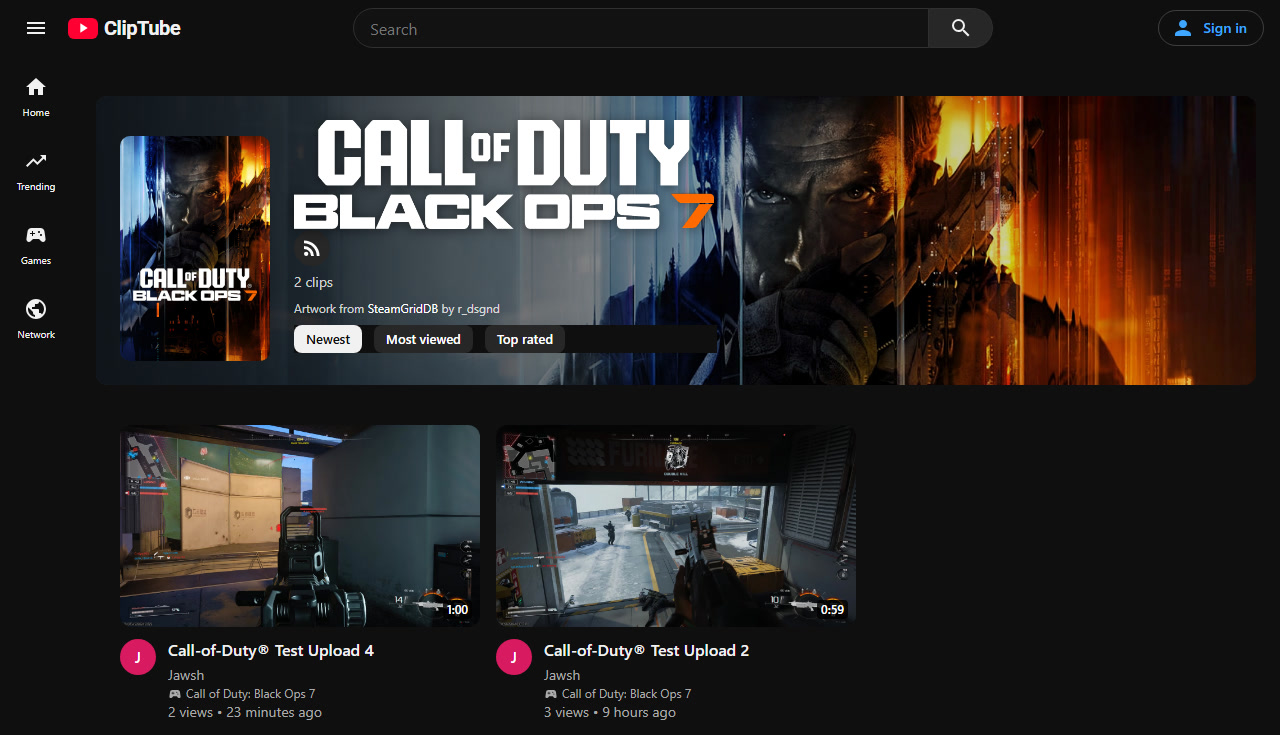
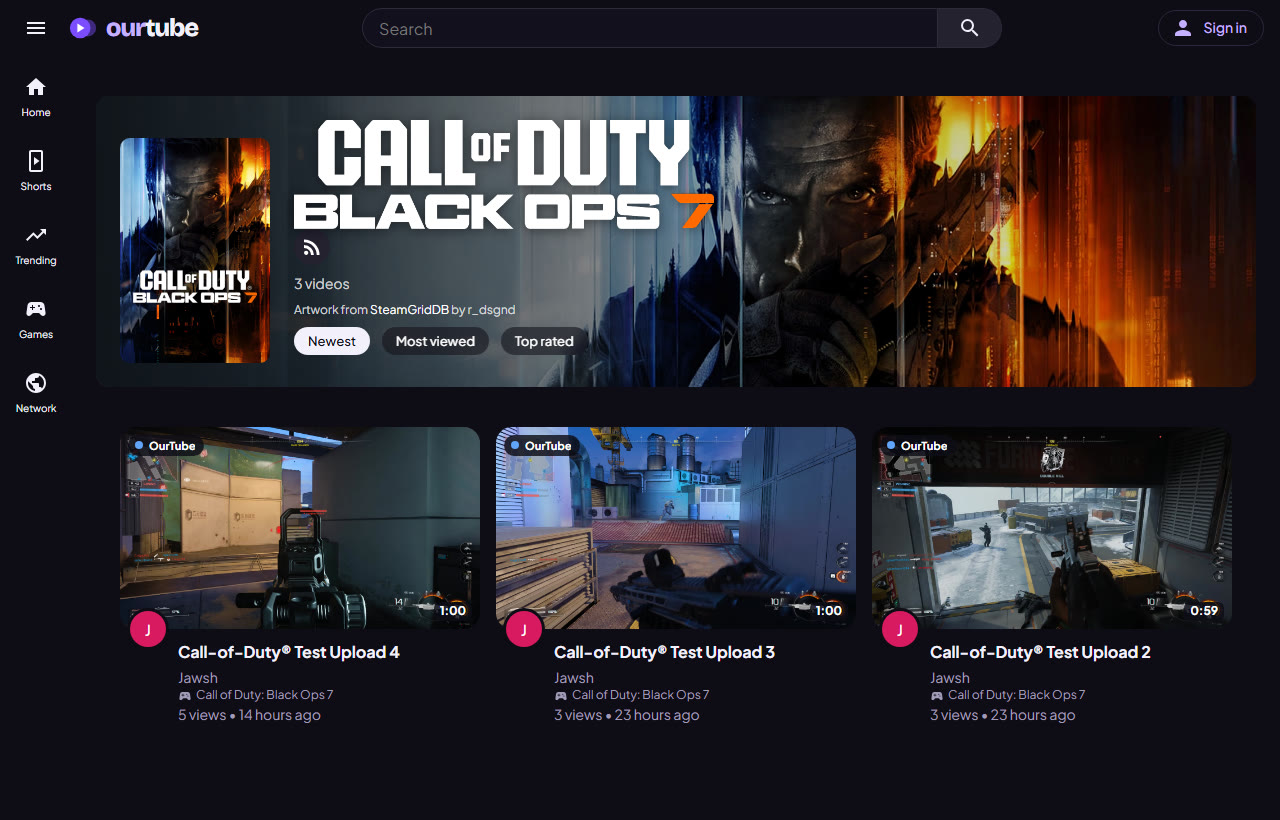
README fixes, "an OurTube", and new screenshots
The README's clip-to-video edit had also changed names that have to stay:
the hub is still at clips.irc.so, the container is still called cliptube
(docker logs / docker exec), and the wiki page is still Clip Tools and
Games. Those are back, the clip-a-moment tool is "Clip a moment" again, a
few headings and sentence starts are capitalized, and the current
release reads v1.14.1.

The rename to OurTube had left "a OurTube" in docs, comments and a few
messages; it's "an OurTube" now.

New screenshots of the hub in the OurTube look: Home with videos from
four servers and their server tags, a watch page, and a game page.

diff --git a/server/network.js b/server/network.js
@@ -122,13 +122,13 @@ const apOn = () => !!ap && apEnabled() && !!apBase();
 /** A peer that speaks protocol 4 (the OurTube network over ActivityPub). */
 const apPeer = (inst) => !!inst?.ap_actor && (inst.protocol || 0) >= 4;
 
-/** A OurTube instance in this network (peered, or listed by our hub): the network's switches apply to it. */
+/** An OurTube instance in this network (peered, or listed by our hub): the network's switches apply to it. */
 export function isNetworkPeer(inst) {
   return !!inst && (inst.protocol || 0) >= 2 && peerAllowed(inst);
 }
 
 /**
- * Another server's instance actor asks to follow ours: a OurTube peer (protocol 4 peering) or a server
+ * Another server's instance actor asks to follow ours: an OurTube peer (protocol 4 peering) or a server
  * mirroring this one (PeerTube does this). The admission switches decide. Returns accept, reject or pending.
  */
 export async function peerFollowReceived(actor, followId) {
@@ -140,7 +140,7 @@ export async function peerFollowReceived(actor, followId) {
   if (!apPeer(inst)) {
     try {
       inst = recordDescriptor(inst.url, await fetchDescriptor(inst.url), inst.source === 'activitypub' ? 'inbound' : inst.source || 'inbound');
-    } catch {} // not a OurTube instance: still subject to the switches below
+    } catch {} // not an OurTube instance: still subject to the switches below
   }
   if (inst.blocked || ['banned', 'suspended'].includes(inst.hub_status)) return 'reject';
   const adm = admission();
@@ -153,7 +153,7 @@ export async function peerFollowReceived(actor, followId) {
     return 'pending';
   }
   db.prepare("UPDATE instances SET peer_status = 'approved', ap_follow_id = NULL, last_seen_at = ?, next_try_at = NULL WHERE id = ?").run(now(), inst.id);
-  // A OurTube peer gets followed back, so videos flow both ways (what "hello" did in protocol v3).
+  // An OurTube peer gets followed back, so videos flow both ways (what "hello" did in protocol v3).
   if (apPeer(inst) && inst.ap_actor === actor.id && apOn() && participating()) ap.follow(instById(inst.id)).catch(() => {});
   return 'accept';
 }
@@ -349,7 +349,7 @@ function validPublicKey(pem) {
 /** What an instance says about itself at its own address. Its TLS certificate vouches for the key. */
 async function fetchDescriptor(url) {
   const d = await fetchJson(`${url}/.well-known/cliptube`, { timeout: 10000 });
-  if (d.software !== 'cliptube') throw new RemoteError(0, `${url} is not a OurTube instance`);
+  if (d.software !== 'cliptube') throw new RemoteError(0, `${url} is not an OurTube instance`);
   let claimed = null;
   try {
     claimed = normalizeInstanceUrl(d.url);
@@ -625,7 +625,7 @@ export function cleanItem(it, origin) {
   };
 }
 
-// One video, one row: a OurTube video seen through both protocols merges, and once it has come over
+// One video, one row: an OurTube video seen through both protocols merges, and once it has come over
 // ActivityPub it stays on that path (protocol 4 peers no longer take interactions the old way).
 const UPSERT_VIDEO = `INSERT INTO network_videos (instance_id, remote_id, title, description, tags, duration, width, height, views, likes,
     created_at, updated_at, thumbnail_url, video_url, watch_url, uploader_username, uploader_display_name, uploader_avatar_url, uploader_url, fetched_at,
@@ -1463,9 +1463,9 @@ export async function joinHub(meInput, hubInput) {
   try {
     desc = await fetchJson(`${hubUrl}/.well-known/cliptube`);
   } catch (e) {
-    throw new HttpError(400, e.status === 404 ? `${hubUrl} is not running a OurTube network hub` : `Could not reach ${hubUrl}: ${e.message}`);
+    throw new HttpError(400, e.status === 404 ? `${hubUrl} is not running an OurTube network hub` : `Could not reach ${hubUrl}: ${e.message}`);
   }
-  if (desc.software !== 'cliptube' || !desc.hub?.enabled) throw new HttpError(400, `${hubUrl} is not running a OurTube network hub`);
+  if (desc.software !== 'cliptube' || !desc.hub?.enabled) throw new HttpError(400, `${hubUrl} is not running an OurTube network hub`);
 
   const nonce = crypto.randomBytes(24).toString('base64url');
   const feedToken = crypto.randomBytes(32).toString('base64url');
@@ -1520,7 +1520,7 @@ export async function joinNetwork(meInput, targetInput) {
   try {
     d = await fetchDescriptor(target);
   } catch (e) {
-    throw new HttpError(400, e.status === 404 ? `${target} is not part of a OurTube network` : `Could not reach ${target}: ${e.message}`);
+    throw new HttpError(400, e.status === 404 ? `${target} is not part of an OurTube network` : `Could not reach ${target}: ${e.message}`);
   }
   if (d.hub?.enabled && !isHub()) return joinHub(me, target);
   if ((Number(d.protocol) || 2) < 3) throw new HttpError(400, `${target} runs an older OurTube that can only be joined through its hub${d.hub?.url ? ` (${d.hub.url})` : ''}`);

diff --git a/server/ap/api.js b/server/ap/api.js
@@ -152,7 +152,7 @@ function apVideo(req) {
 }
 
 const instOf = (instanceId) => db.prepare('SELECT * FROM instances WHERE id = ?').get(Number(instanceId));
-/** A OurTube peer on protocol 4: answers each comment, and serves its whole thread. */
+/** An OurTube peer on protocol 4: answers each comment, and serves its whole thread. */
 const clipTubePeer = (inst) => !!inst?.ap_actor && (inst.protocol || 0) >= 4;
 
 /** The OurTube network's switches cover OurTube peers; other servers only answer to their own settings. */
@@ -199,7 +199,7 @@ const commentShape = (c, me) => {
   };
 };
 
-/** A note from a OurTube peer's thread, in the shape of the comments API. */
+/** A note from an OurTube peer's thread, in the shape of the comments API. */
 function threadComment(n, v, me, mine, inThread, base) {
   const a = n.attributedTo && typeof n.attributedTo === 'object' ? n.attributedTo : { id: idOf(n.attributedTo) };
   const actorId = idOf(a.id) || '';
@@ -241,7 +241,7 @@ apNetworkRouter.get('/videos/:iid/:rid/comments', async (req, res, next) => {
   const canPost = !!v.comments_enabled && apEnabled() && (!isNetworkPeer(inst) || networkPolicy().comments);
   const rows = db.prepare('SELECT * FROM network_comments WHERE instance_id = ? AND remote_id = ? ORDER BY created_at').all(v.instance_id, v.remote_id);
   const mine = new Map(rows.filter((c) => c.ap_id).map((c) => [c.ap_id, c]));
-  // A OurTube peer serves the whole thread; elsewhere, show the comments that were delivered here.
+  // An OurTube peer serves the whole thread; elsewhere, show the comments that were delivered here.
   const thread = clipTubePeer(inst) ? await remoteThread(v) : null;
   if (thread) {
     const inThread = new Set(thread.map((n) => n.id));
@@ -367,7 +367,7 @@ apNetworkRouter.post('/videos/:iid/:rid/like', requireAuth, requireApOn, async (
 });
 
 /**
- * A fediverse channel's actor, for the remote channel links. On a OurTube peer (protocol 4) a channel we
+ * A fediverse channel's actor, for the remote channel links. On an OurTube peer (protocol 4) a channel we
  * haven't seen yet is fetched from its usual address (name_channel is /ap/channels/name).
  */
 async function apChannel(req) {

diff --git a/server/routes/videos.js b/server/routes/videos.js
@@ -758,7 +758,7 @@ videosRouter.patch('/:id/comments/:cid', requireAuth, (req, res) => {
     db.prepare("UPDATE comments SET status = 'visible', held_reason = NULL WHERE id = ?").run(c.id);
     notifyComment(c.id);
     apCommentCreated(c.id);
-    if (c.status === 'held') apCommentVerdict(c, true).catch(() => {}); // a OurTube peer is waiting to hear
+    if (c.status === 'held') apCommentVerdict(c, true).catch(() => {}); // an OurTube peer is waiting to hear
     if (req.user.id !== v.user_id) logAction(req.user, 'comment.approve', { targetType: 'comment', targetId: c.id, targetLabel: c.body.slice(0, 120) });
   }
   if (b.pinned !== undefined || b.hearted !== undefined) {
@@ -802,7 +802,7 @@ videosRouter.delete('/:id/comments/:cid', requireAuth, (req, res) => {
   db.prepare('DELETE FROM comments WHERE id = ?').run(c.id);
   const author = db.prepare('SELECT username, remote_instance_id FROM users WHERE id = ?').get(c.user_id);
   if (author && !author.remote_instance_id) sendCommentDelete(c, author.username, v.user_id);
-  // Deleting a held comment from a OurTube peer is the answer to it.
+  // Deleting a held comment from an OurTube peer is the answer to it.
   if (c.status === 'held' && c.ap_id) apCommentVerdict(c, false, 'Not approved').catch(() => {});
   if (req.user.is_moderator && req.user.id !== c.user_id && req.user.id !== v.user_id) {
     logAction(req.user, 'comment.delete', { targetType: 'comment', targetId: c.id, targetLabel: c.body.slice(0, 120) });

diff --git a/server/ap/inbox.js b/server/ap/inbox.js
@@ -31,7 +31,7 @@ const accepts = (actorId) => {
   return { comments: s.network_accept_comments === 'true', likes: s.network_accept_likes === 'true', subscriptions: s.network_accept_subscriptions === 'true' };
 };
 
-/** A OurTube peer on protocol 4, which expects an answer to each comment (Accept or Reject). */
+/** An OurTube peer on protocol 4, which expects an answer to each comment (Accept or Reject). */
 const wantsVerdict = (actorId) => {
   const inst = db.prepare('SELECT ap_actor, protocol FROM instances WHERE url = ?').get(originOf(actorId));
   return !!inst?.ap_actor && (inst.protocol || 0) >= 4;
@@ -201,7 +201,7 @@ async function onAnswer(a, actorId, base, accepted) {
   }
   if (!f) return onVerdict(o, actorId, accepted, a);
   db.prepare('UPDATE ap_follows SET status = ? WHERE local_actor = ? AND remote_actor = ?').run(accepted ? 'accepted' : 'rejected', f.local_actor, f.remote_actor);
-  // Our instance following a OurTube peer: that is the peering, and network.js keeps track of it.
+  // Our instance following an OurTube peer: that is the peering, and network.js keeps track of it.
   if (f.local_actor === 'i' && db.prepare('SELECT 1 FROM instances WHERE ap_actor = ?').get(actorId)) return peerFollowAnswered(actorId, accepted);
   if (accepted) enqueueJob('ap.backfill', { actor: actorId }, { dedupe: `ap-backfill:${actorId}` });
 }

diff --git a/server/transfer.js b/server/transfer.js
@@ -312,7 +312,7 @@ async function runImport(id) {
 
   const entries = await listTar(file);
   const meta = entries.find((e) => e.name === 'channel.json' || e.name.endsWith('/channel.json'));
-  if (!meta) throw new Error("This isn't a OurTube channel export (channel.json is missing)");
+  if (!meta) throw new Error("This isn't an OurTube channel export (channel.json is missing)");
   if (meta.size > 64 * 1048576) throw new Error('channel.json is too large');
   const root = meta.name.slice(0, meta.name.length - 'channel.json'.length);
   let data;
@@ -564,7 +564,7 @@ const archiveUpload = () =>
   multer({
     storage: archiveStorage,
     limits: { files: 1, fileSize: importMaxBytes() },
-    fileFilter: (req, f, cb) => (/\.tar$/i.test(f.originalname) ? cb(null, true) : cb(new HttpError(400, 'Choose the .tar file from a OurTube channel export'))),
+    fileFilter: (req, f, cb) => (/\.tar$/i.test(f.originalname) ? cb(null, true) : cb(new HttpError(400, 'Choose the .tar file from an OurTube channel export'))),
   }).single('archive');
 
 transferRouter.get('/channel-imports', (req, res) => {

diff --git a/server/migrations.js b/server/migrations.js
@@ -723,7 +723,7 @@ CREATE INDEX idx_channel_imports_user ON channel_imports(user_id, created_at);
     version: 10,
     name: 'OurTube network over ActivityPub: peer instance actors, pending peer follows, comment verdicts',
     up(db) {
-      addColumn(db, 'instances', 'ap_actor', 'TEXT'); // the instance actor of a OurTube peer that speaks protocol 4
+      addColumn(db, 'instances', 'ap_actor', 'TEXT'); // the instance actor of an OurTube peer that speaks protocol 4
       addColumn(db, 'instances', 'ap_follow_id', 'TEXT'); // its Follow of our instance actor, while it waits for approval
       addColumn(db, 'network_comments', 'status', "TEXT NOT NULL DEFAULT 'visible'"); // visible | pending | rejected
       addColumn(db, 'network_comments', 'status_reason', 'TEXT');

diff --git a/test/activitypub.test.js b/test/activitypub.test.js
@@ -188,7 +188,7 @@ test('discovery: WebFinger, NodeInfo, actors and content negotiation', async () 
   assert.match(html, /rel="alternate" type="application\/activity\+json"/);
 });
 
-test('a fediverse channel follows a OurTube channel and gets its new uploads', async () => {
+test('a fediverse channel follows an OurTube channel and gets its new uploads', async () => {
   const r = await fake.send(`${base}/ap/channels/bob/inbox`, { type: 'Follow', actor: fake.account, object: `${base}/ap/channels/bob` });
   assert.equal(r.status, 202, await r.text());
   const accept = await waitFor(() => fake.find((b) => b.type === 'Accept'), { what: 'Accept' });

diff --git a/server/ap/deliver.js b/server/ap/deliver.js
@@ -68,7 +68,7 @@ export function sendVerdict(localActor, noteId, remoteActor, accepted, reason = 
   );
 }
 
-/** The owner approved (or deleted) a held comment that came from a OurTube peer: answer its server. */
+/** The owner approved (or deleted) a held comment that came from an OurTube peer: answer its server. */
 export async function apCommentVerdict(comment, accepted, reason = null) {
   if (!comment?.ap_id || !apEnabled()) return;
   const author = db.prepare('SELECT ap_actor FROM users WHERE id = ?').get(comment.user_id);

diff --git a/server/ap/move.js b/server/ap/move.js
@@ -55,7 +55,7 @@ const isHere = (target) => {
 };
 
 /**
- * Moves one local person's subscription to a channel's new home: a channel on this site, a OurTube
+ * Moves one local person's subscription to a channel's new home: a channel on this site, an OurTube
  * instance (subscribed through the network), or anywhere in the fediverse (followed). Returns how, or null.
  */
 export async function moveSubscriber(userId, target, { fromName = null, prefer = 'network' } = {}) {

diff --git a/server/ap/peering.js b/server/ap/peering.js
@@ -160,7 +160,7 @@ async function refreshVideo(row) {
 
 const threads = new Map(); // video ap id -> { at, items }
 /**
- * The full comment thread of a video on a OurTube peer (protocol 4), from its comments collection with
+ * The full comment thread of a video on an OurTube peer (protocol 4), from its comments collection with
  * the notes embedded. Cached for a few seconds. Returns null when it can't be read.
  */
 export async function remoteThread(row) {

diff --git a/README.md b/README.md
@@ -4,7 +4,7 @@
 
 # OurTube
 
-**A self-hosted YouTube for Your Videos.**<br>
+**A self-hosted YouTube for your videos.**<br>
 Upload your videos, share them with friends, and link your server with theirs.
 
 [![Node.js 22.13+](https://img.shields.io/badge/Node.js-22.13%2B-5FA04E?logo=nodedotjs&logoColor=white)](https://nodejs.org)
@@ -20,7 +20,7 @@ Upload your videos, share them with friends, and link your server with theirs.
 [Wiki](docs/wiki/Home.md) •
 [Development](#development)
 
-<img src="docs/images/game.jpg" alt="A OurTube game page: SteamGridDB banner, title logo and cover above the game's videos" width="100%">
+<img src="docs/images/game.jpg" alt="An OurTube game page: SteamGridDB banner, title logo and cover above the game's videos" width="100%">
 
 </div>
 
@@ -29,7 +29,7 @@ Upload your videos, share them with friends, and link your server with theirs.
 Your videos shouldn't live on a platform you don't control. OurTube is a streaming site you run yourself, built
 around what a video streaming site needs:
 
-- **videos go up fast.** Drop in a pile of recordings, fill in the details while they upload, and publish when
+- **Videos go up fast.** Drop in a pile of recordings, fill in the details while they upload, and publish when
   you're ready. H.264 recordings are remuxed losslessly in seconds; anything else is transcoded, on your GPU if
   you have one.
 - **Every friend runs their own.** Each person hosts their own videos. The servers link up into one network, so
@@ -41,7 +41,7 @@ around what a video streaming site needs:
 
 <table>
   <tr>
-    <td width="50%"><img src="docs/images/home.jpg" alt="The home feed with three gaming videos"></td>
+    <td width="50%"><img src="docs/images/home.jpg" alt="The home feed: videos from four servers, each tagged with the server it lives on"></td>
     <td width="50%"><img src="docs/images/watch.jpg" alt="The watch page with the player, likes, share, compare and download"></td>
   </tr>
   <tr>
@@ -86,9 +86,9 @@ around what a video streaming site needs:
 <tr>
 <td width="50%" valign="top">
 
-### video tools
+### Video tools
 
-- **video a moment** from any video into a new one that links back
+- **Clip a moment** from any video into a new one that links back
 - GIF and MP4 export of any range
 - Looping share links (`/watch/abc?t=12&end=20`)
 - **Compare** two videos side by side, frame-aligned, at up to 1/10 speed
@@ -165,17 +165,17 @@ cd ourtube
 mkdir -p data
 docker network create proxy-net    # the network your reverse proxy shares with OurTube (once)
 docker compose up -d --build
-docker logs videotube               # shows the one-time setup code
+docker logs cliptube               # shows the one-time setup code
 ```
 
 Then:
 
-1. Point your reverse proxy at **`videotube:3000`**, and let it pass large uploads (the
+1. Point your reverse proxy at **`cliptube:3000`**, and let it pass large uploads (the
    [Installation](docs/wiki/Installation.md) guide has settings for Nginx Proxy Manager, Caddy and nginx).
 2. Open the site and **create the first account**. It becomes the admin; the form asks for the setup code
    from the log, so nobody else can claim a fresh server.
 3. In **Admin → Overview**, set the **Public URL** to your `https://` address and choose who may sign up.
-4. Optional: **Admin → Network → Join network** with `https://videos.irc.so` to link up with the OurTube
+4. Optional: **Admin → Network → Join network** with `https://clips.irc.so` to link up with the OurTube
    network, and add a SteamGridDB key under **Admin → Games** for game artwork.
 
 No reverse proxy yet, or no Docker? The [Installation](docs/wiki/Installation.md) guide covers a standalone
@@ -185,7 +185,7 @@ container, running straight from Node.js, hosting at home and GPU encoding.
 
 ```mermaid
 flowchart TB
-    hub(["<b>Hub</b> · videos.irc.so<br/>directory · game catalog · block list"])
+    hub(["<b>Hub</b> · clips.irc.so<br/>directory · game catalog · block list"])
     subgraph net ["Servers peer directly over ActivityPub"]
         direction LR
         you["Your server"] <--> f1["A friend’s server"] <--> f2["Another friend’s server"]
@@ -240,10 +240,10 @@ All settings, the data folder and what to back up: [Configuration](docs/wiki/Con
 Server operators can manage the network, accounts and settings without a web login:
 
 ```bash
-docker exec videotube node server/cli.js network status
-docker exec videotube node server/cli.js network join https://videos.irc.so
-docker exec videotube node server/cli.js user role alice moderator
-docker exec -i videotube node server/cli.js settings set-secret steamgriddb_api_key < keyfile
+docker exec cliptube node server/cli.js network status
+docker exec cliptube node server/cli.js network join https://clips.irc.so
+docker exec cliptube node server/cli.js user role alice moderator
+docker exec -i cliptube node server/cli.js settings set-secret steamgriddb_api_key < keyfile
 ```
 
 Every command: [Admin CLI](docs/wiki/Admin-CLI.md).
@@ -283,7 +283,7 @@ setup and the fediverse interop sandbox are described in [Development](docs/wiki
 | [Upgrading and Backups](docs/wiki/Upgrading-and-Backups.md) | Updates, rollbacks, backups, moving servers |
 | [Uploading and Editing](docs/wiki/Uploading-and-Editing.md) | Uploads, drafts, processing, the timeline editor, captions |
 | [Watching and Discovery](docs/wiki/Watching-and-Discovery.md) | The player, streaming, feeds, notifications, search, analytics |
-| [video Tools and Games](docs/wiki/video-Tools-and-Games.md) | videoping, exports, compare, the game catalog, SteamGridDB |
+| [Clip Tools and Games](docs/wiki/Clip-Tools-and-Games.md) | Clipping a moment, exports, compare, the game catalog, SteamGridDB |
 | [Watch Parties](docs/wiki/Watch-Parties.md) | Watching with friends in sync, the queue, chat and reactions |
 | [Live Streaming](docs/wiki/Live-Streaming.md) | Going live from OBS, the live chat, recordings, turning it on |
 | [Webhooks](docs/wiki/Webhooks.md) | Telling a bot, a bridge or a chat channel when you post or go live |
@@ -298,8 +298,8 @@ setup and the fediverse interop sandbox are described in [Development](docs/wiki
 
 ## Status
 
-OurTube runs on three linked servers, with [videos.irc.so](https://videos.irc.so) as the hub. Every
-milestone in [PLAN.md](PLAN.md) is done (current release: **v1.12.0**); smaller ideas are tracked in
+OurTube runs on three linked servers, with [clips.irc.so](https://clips.irc.so) as the hub. Every
+milestone in [PLAN.md](PLAN.md) is done (current release: **v1.14.1**); smaller ideas are tracked in
 [TODO.md](TODO.md). The Android app is in [mobile/](mobile/README.md), with APKs on the
 [releases page](https://github.com/JawshTheDark/ourtube/releases).
 

diff --git a/docs/federation.md b/docs/federation.md
@@ -17,7 +17,7 @@ catalog.
   missed delivery is caught and deletions are never missed.
 - **People.** Subscriptions are follows of a channel's actor (`name_channel`), likes and dislikes are Like
   and Dislike, comments are Notes, reports are Flags, deleted accounts are Delete, and moves are Move.
-- **Comment answers.** The server hosting a video answers each comment from a OurTube instance with
+- **Comment answers.** The server hosting a video answers each comment from an OurTube instance with
   Accept (shown, right away or once its owner approves a held one) or Reject (refused, with the reason).
   Until then the author sees it as waiting. A server that refuses the delivery outright (because it blocks
   the sender) marks it refused too.
@@ -77,9 +77,9 @@ address). It names the terms rather than linking to them, so it stays the same o
 Checked against real servers in a private sandbox (`scripts/fediverse-sandbox.sh`, which runs them in
 Docker on a host with no ports opened):
 
-- **PeerTube 7.3:** subscribing to a OurTube channel imports its videos, which PeerTube plays from the MP4;
+- **PeerTube 7.3:** subscribing to an OurTube channel imports its videos, which PeerTube plays from the MP4;
   comments and likes go both ways; OurTube follows PeerTube channels and whole servers and plays their videos.
-- **GoToSocial 0.22** (it speaks Mastodon's API): following a OurTube account, new clips in the timeline with
+- **GoToSocial 0.22** (it speaks Mastodon's API): following an OurTube account, new clips in the timeline with
   a playable video, replies becoming comments, favourites and boosts counting, OurTube's replies arriving,
   and OurTube following GoToSocial accounts.
 
